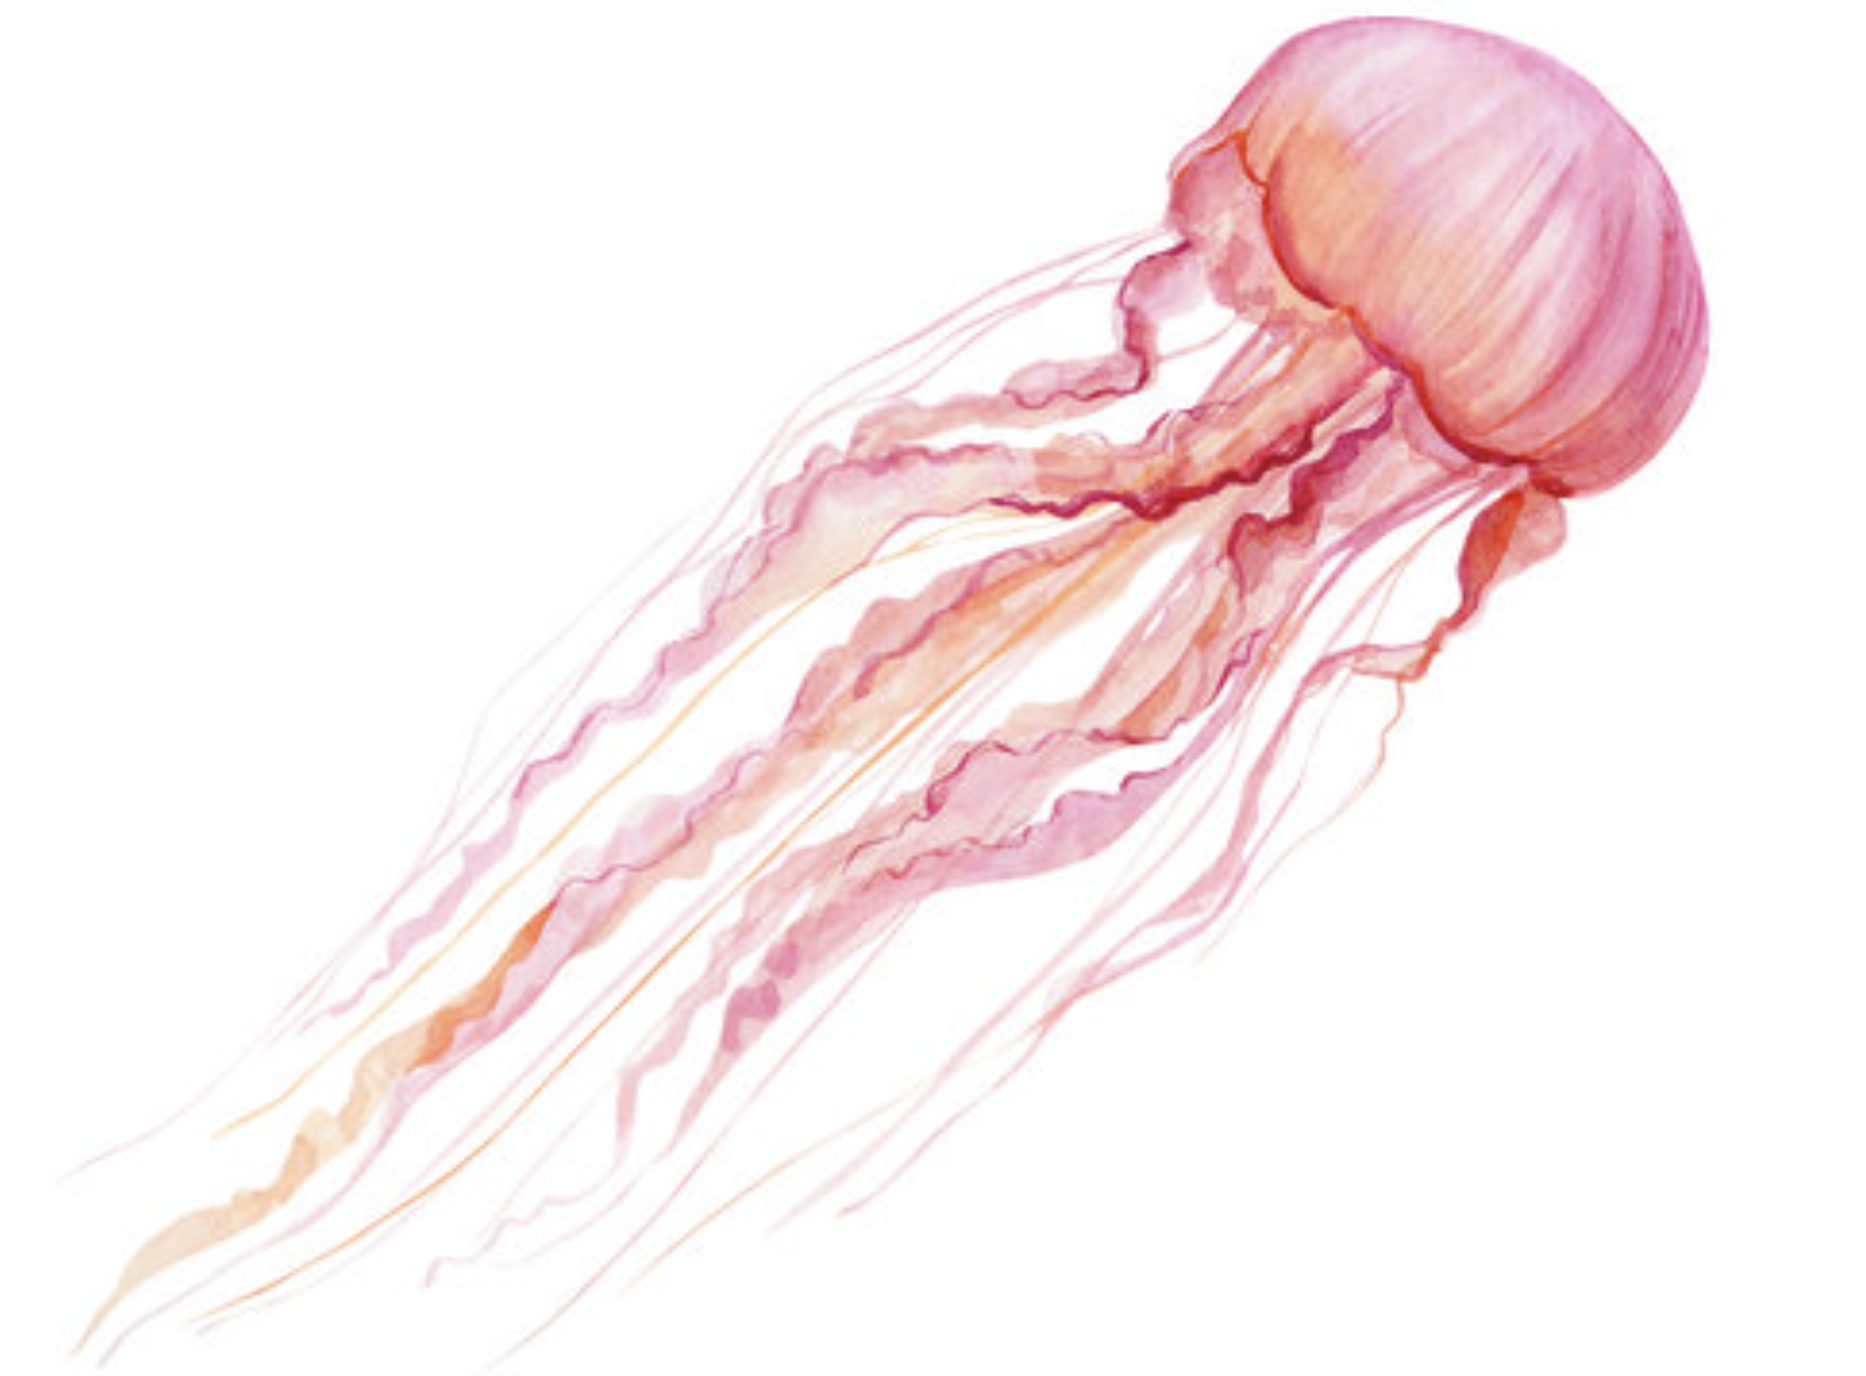
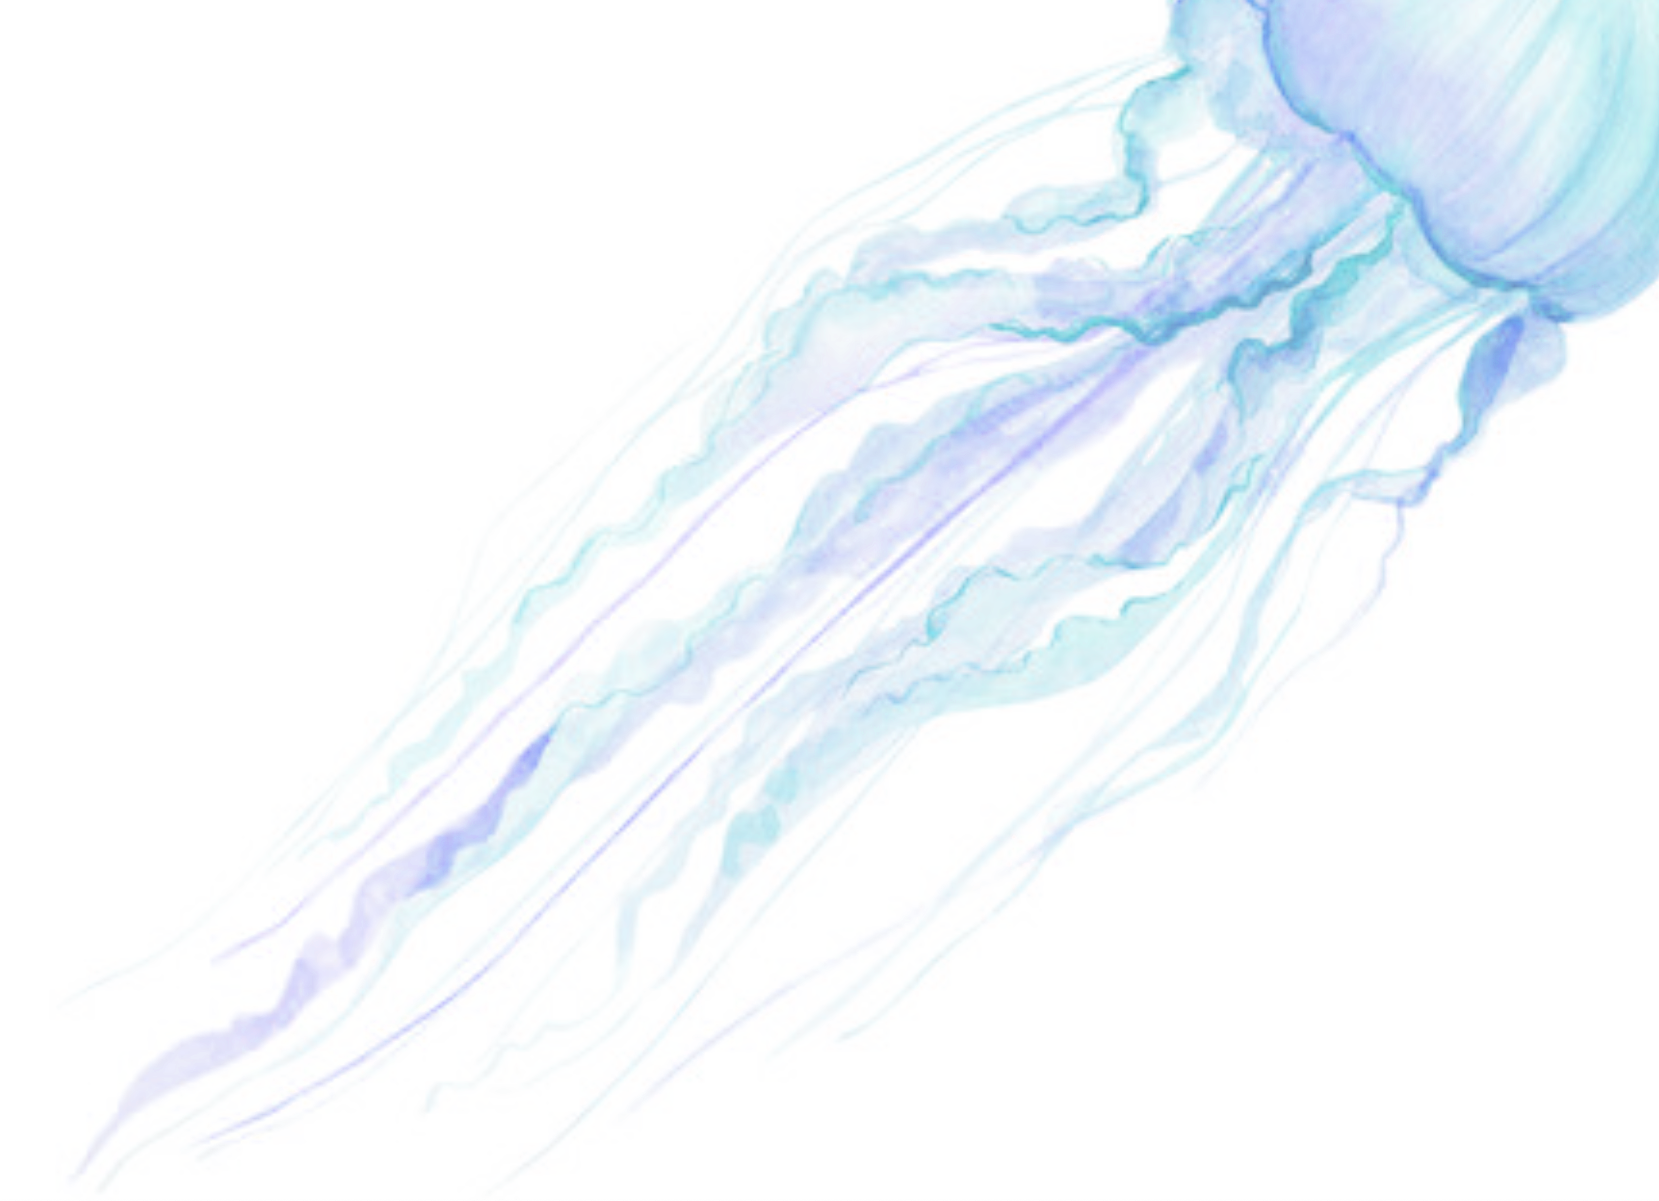
background image

diff --git a/index.html b/index.html
@@ -9,8 +9,8 @@
   <link rel="stylesheet" href="./assets/css/style.css" />
 </head>
 
-<body class="bg-white"
-  <!-- main logo / nav -->
+<body class="bg-white"> 
+
   <header>
   
      <nav id="navBar">
@@ -31,20 +31,18 @@
   </header>
 <br>
 <br>
-<img class="selfie" src="./assets/images/Selfieb&w.jpg" alt="profile photo of Tamara Joniec";
+<img class="selfie" src="./assets/images/Selfieb&w.jpg" alt="profile photo of Tamara Joniec">
 
   <!-- hero banner -->
   <section class="hero-banner">
     <section id="heroGrid">
-      <div id="featuredProduct" class="heroGridArea">
+      <div id="featuredProduct">
         <div id="headline">
           <h3 id="aboutMe">About me</h3>
           <h2>Website Design</h2>
              <p>User-minded trainee Web Developer prioritizes usability and adaptability during projects. Designs sites to attract users with aesthetically pleasing interfaces and exceptional UX elements. Comfortable working within large-scale collaborations or on individually-developed assets.</p>
         </div>
       </div>
-      <div id="secondaryProduct" class="heroGridArea"></div>
-      <div id="CTA" class="heroGridArea">
         <h4>Go to Projects</h4>
     
       </div>

diff --git a/assets/css/style.css b/assets/css/style.css
@@ -1,9 +1,20 @@
 
 body {
      font-family:century gothic; Century gothic Bold; Century Gothic Bold Italic, Century Gothic Italic;
+     color:#424949;
      margin: 0px 5%;
      gap:10px auto;
     }
+
+body { 
+    background-image: url("../images/pinkjf.png");
+    background-position: center;
+    background-repeat: no-repeat;
+    background-size: cover;
+    align-items: center;
+    }
+
+
 /* Header */
 #navBar {
     display: flex;
@@ -41,7 +52,7 @@ body {
     justify-content: space-evenly;
     gap:20px;
   }
-
+/* Profile and information */
 .selfie {
     max-width: 200px; height:auto;
     position: ;
@@ -49,10 +60,27 @@ body {
     padding: 0.5rem;
     border: 3px solid orange ;
     border-style: dashed;
+    z-index:100px;
 }
 
 /* hero banner */
+/* Grid CSS */
 
+#heroGrid {
+    margin: 0px;
+    display: grid;
+    min-height: 500px;
+    height: 70vh;
+    grid-template-rows: 75% 25%;
+    grid-template-columns: 75% 25%;
+    grid-template-areas:
+    "featuredProduct secondaryProduct"
+  }
+#featuredProduct {
+    grid-area: featuredProduct;
+   
+    position: relative;
+    }
 
 
 /* media queries */
